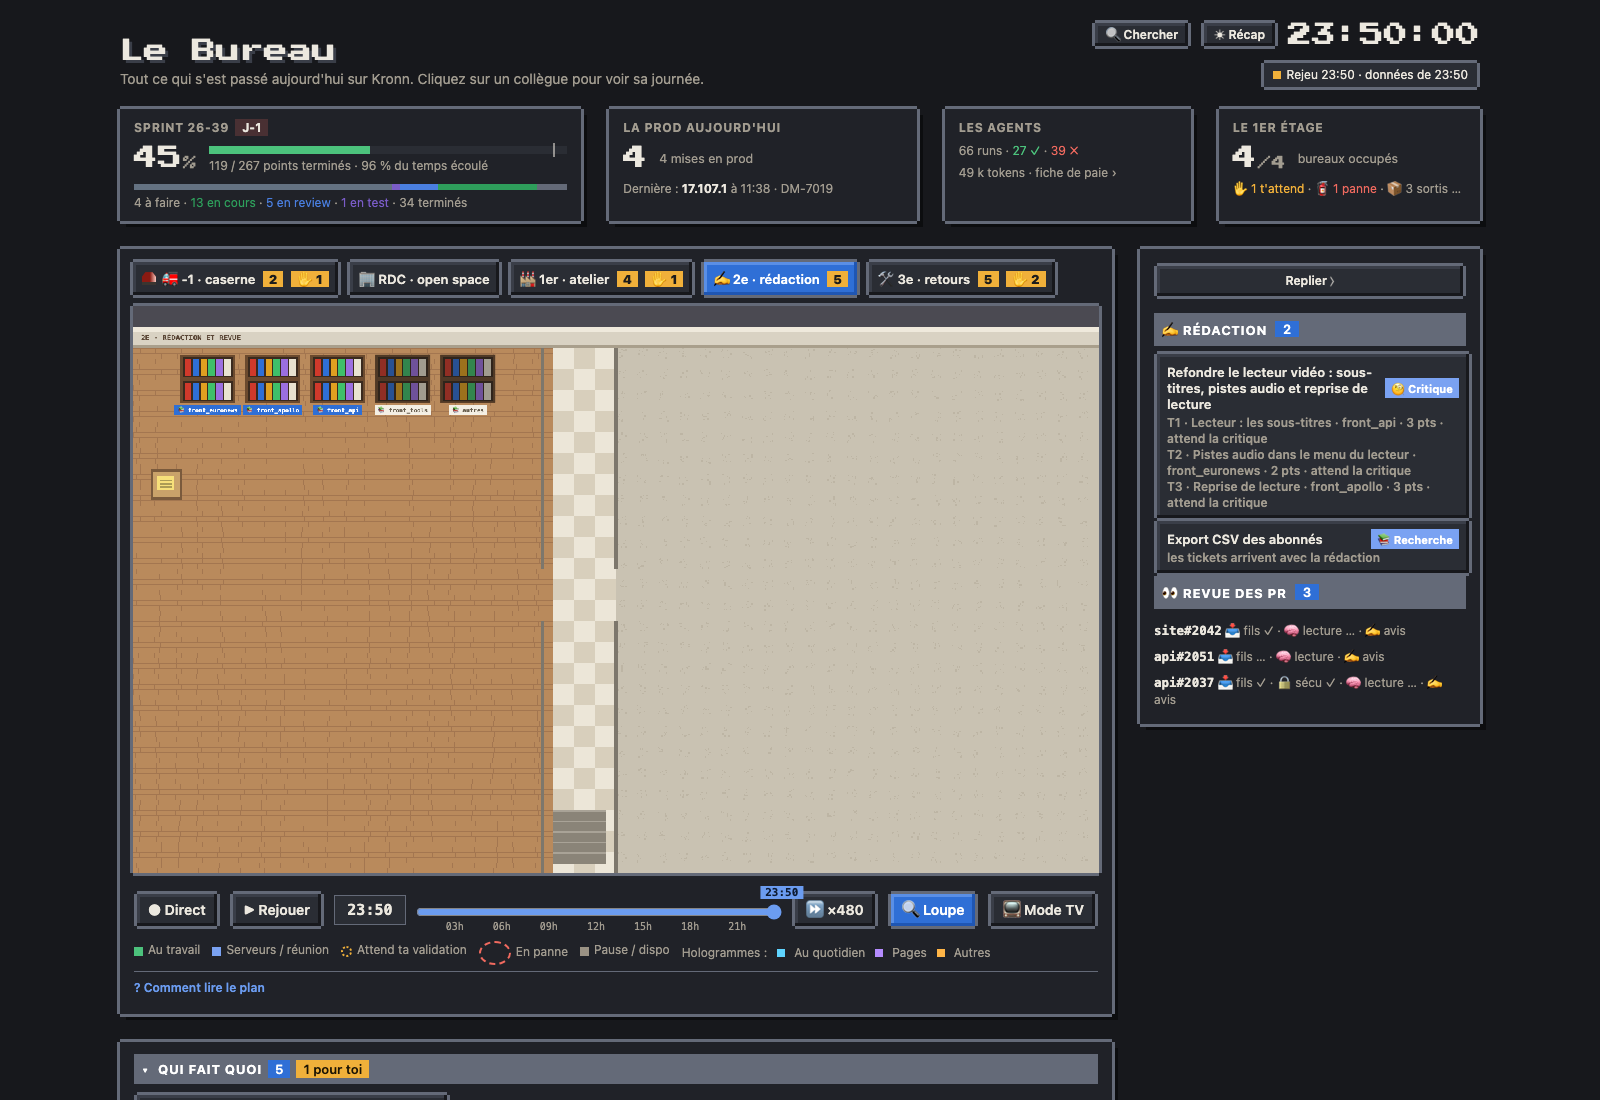
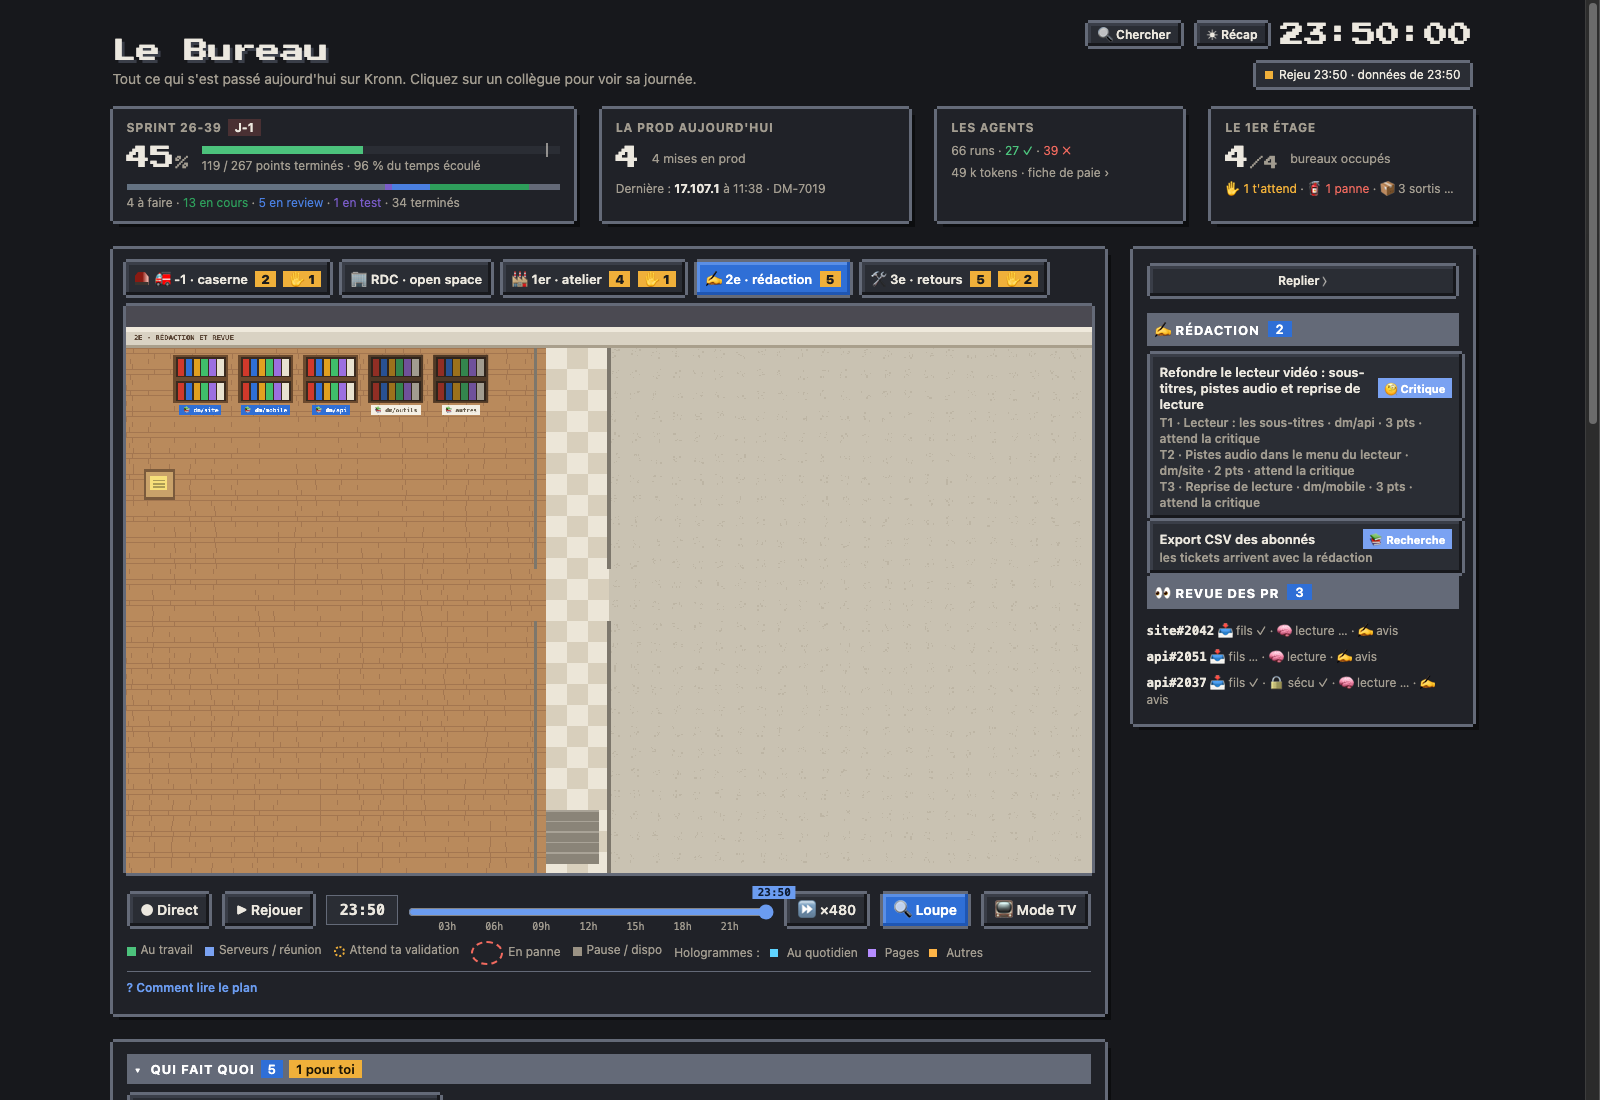
fix(redaction): les bibliothèques viennent des composants de l'équipe, la démo garde ses dépôts fictifs
Aucun nom de dépôt réel dans le dépôt public (test_public) : en démo, dm/site, dm/mobile, dm/api et dm/outils ; chez
toi, les quatre premiers composants de jira.create.components (CFG.redaction_shelves).

diff --git a/page/src/68-redaction.js b/page/src/68-redaction.js
@@ -10,7 +10,7 @@
 // Données : dataset redaction (workflows/redaction_snapshot.py, cron live) et les runs de la revue (DATA.runs) ; démo : redactionDemo().
 const RD_POSTES=[{k:'recherche',i:'📚',n:'Recherche'},{k:'redaction',i:'✍',n:'Rédaction'},{k:'critique',i:'🧐',n:'Critique'},{k:'valider',i:'✋',n:'Toi'}];
 const RD_TK={wait:['#f7e07a','attend la critique'],run:['#9fd4ff','en cours'],gate:['#ffcf4a','t\'attend'],ok:['#b6e3a8','créé'],ecarte:['#d8d2c4','écarté'],err:['#f4a3a3','en panne']};
-const RD_X1=19.5, RD_VX=23, RD_SH=['front_euronews','front_apollo','front_api','front_tools'];
+const RD_X1=19.5, RD_VX=23, RD_SH0=['dm/site','dm/mobile','dm/api','dm/outils'];
 const RD_DESK={x:15.6*AT_TS,y:23.4*AT_TS}, RD_JIRA={x:17.8*AT_TS,y:25.6*AT_TS}, RD_CORK={x:1.6*AT_TS,y:9.4*AT_TS};
 let REDACTION=null, RDSEL=null, RD_HITS=[], RD_LIT=[], RD_MEM={last:0};
 function readRedaction(src){
@@ -28,9 +28,9 @@ function redactionDemo(){
   const at=h=>new Date(DAY0+h*36e5).toISOString();
   return {generated_at:at(11),crees:2,tables:[
     {run:'demo-t1',status:'Running',since:at(10.2),intention:'Refondre le lecteur vidéo : sous-titres, pistes audio et reprise de lecture',poste:'critique',tour:2,
-     composants:['front_euronews','front_apollo','front_api'],tickets:[{i:0,summary:'Lecteur : les sous-titres',composant:'front_api',points:3,etat:'wait'},
-       {i:1,summary:'Pistes audio dans le menu du lecteur',composant:'front_euronews',points:2,etat:'wait'},{i:2,summary:'Reprise de lecture',composant:'front_apollo',points:3,etat:'wait'}]},
-    {run:'demo-t2',status:'Running',since:at(10.8),intention:'Export CSV des abonnés',poste:'recherche',tour:1,composants:['front_tools'],tickets:[]}],
+     composants:['dm/site','dm/mobile','dm/api'],tickets:[{i:0,summary:'Lecteur : les sous-titres',composant:'dm/api',points:3,etat:'wait'},
+       {i:1,summary:'Pistes audio dans le menu du lecteur',composant:'dm/site',points:2,etat:'wait'},{i:2,summary:'Reprise de lecture',composant:'dm/mobile',points:3,etat:'wait'}]},
+    {run:'demo-t2',status:'Running',since:at(10.8),intention:'Export CSV des abonnés',poste:'recherche',tour:1,composants:['dm/outils'],tickets:[]}],
     events:[{t:at(10.2),k:'arrive',run:'demo-t1'},{t:at(10.8),k:'arrive',run:'demo-t2'},{t:at(8.5),k:'arrive',run:'demo-t0'},{t:at(9.1),k:'gate',run:'demo-t0'},{t:at(9.2),k:'cree',run:'demo-t0'},{t:at(9.3),k:'cree',run:'demo-t0'},{t:at(9.4),k:'fin',run:'demo-t0'}]};
 }
 const rdTables=()=>((REDACTION&&REDACTION.tables)||[]).slice(0,3);
@@ -79,7 +79,8 @@ function rdAgent(people,k,x,y,s,o,now){
 function rdShelf(x,y,label,lit){R(ctx,x,y,84,74,'#6b4a2e');[4,40].forEach(dy=>{R(ctx,x+4,y+dy,76,30,'#3a2a1e');['#d0392b','#2f6fd6','#e0a020','#3fbf6a','#9b6fe0','#e8e2d0'].forEach((c,k)=>R(ctx,x+7+k*12,y+dy+3,10,26,c));});
   if(!lit){ctx.fillStyle='rgba(30,26,22,.35)';ctx.fillRect(x,y,84,74);}
   atPill('📚 '+label,x+42,y+88,lit?'#2f6fd6':'#f4efe4',lit?'#fff':'#6a6050','bold 9px ui-monospace,Menlo,monospace');}
-const rdShelves=t=>{const own=[...((t&&t.composants)||[])], base=[...RD_SH];for(const c of own)if(!base.includes(c))base.splice(base.length-1,0,c);return [...base.slice(0,4),'autres'];};
+// les bibliothèques : les composants de l'équipe (jira.create.components du pack ou de la config), sinon ceux de la démo
+const rdShelves=t=>{const own=[...((t&&t.composants)||[])], base=[...((CFG.redaction_shelves||[]).length?CFG.redaction_shelves:RD_SH0)].slice(0,4);for(const c of own)if(!base.includes(c))base.splice(base.length-1,0,c);return [...base.slice(0,4),'autres'];};
 function rdPin(q,col){ctx.fillStyle=col;ctx.beginPath();ctx.arc(q.x,q.y,5,0,7);ctx.fill();ctx.fillStyle='rgba(255,255,255,.7)';ctx.fillRect(q.x-2,q.y-3,2,2);}
 function rdStrand(a,b,on){ctx.save();ctx.beginPath();ctx.moveTo(a.x,a.y);if(on){ctx.lineTo(b.x,b.y);ctx.etatrokeStyle='#c0392b';ctx.lineWidth=3;}
   else{ctx.quadraticCurveTo((a.x+b.x)/2,(a.y+b.y)/2+22,b.x,b.y);ctx.setLineDash([5,5]);ctx.etatrokeStyle='#9a958a';ctx.lineWidth=2;}ctx.etatroke();ctx.restore();}

diff --git a/tests/redaction.test.js b/tests/redaction.test.js
@@ -42,7 +42,7 @@ test("la revue : l'auteur de la PR en face du relecteur, un remplaçant pour la 
   p.run('setFloor(2); renderRedaction(1000);');
   const html = J('redactionListHtml()');
   assert.match(html, /Rédaction <span class="cnt">2/);
-  assert.match(html, /T2 · Pistes audio dans le menu du lecteur · front_euronews · 2 pts/);
+  assert.match(html, /T2 · Pistes audio dans le menu du lecteur · dm\/site · 2 pts/);
   assert.match(html, /Revue des PR <span class="cnt">3/);
   assert.match(J('tvRedactionHtml()'), /Rédaction[\s\S]*Revue des PR · 3/);
 });

diff --git a/tools/assemble.py b/tools/assemble.py
@@ -208,6 +208,8 @@ def page_config(cfg):
         # 3e étage, les retours de PR : ses onglets quand le modèle « corriger les commentaires d'une PR » est installé
         "retours": bool((cfg.get("actions") or {}).get("fix_pr")),
         # 2e étage, la revue des PR : préfixes des runs de relecture d'une PR (le sous-workflow commun et la revue à la demande)
+        # 2e étage, la salle de rédaction : une bibliothèque par composant de l'équipe (jira.create.components)
+        "redaction_shelves": [str(c.get("name") if isinstance(c, dict) else c) for c in (((cfg.get("jira") or {}).get("create") or {}).get("components") or [])][:4],
         "revue_wf": sorted({str((cfg.get("models") or {}).get(k) or "")[:8] for k in ("review_child", "review_one") if (cfg.get("models") or {}).get(k)}),
         # ses workflows (modèles impl*) : leurs runs vont au 1er, ni au RDC ni dans « Nouvel agent »
         "atelier_wf": sorted({str(v)[:8] for k, v in (cfg.get("models") or {}).items() if k.startswith("impl") and k != "impl" and v}),

diff --git a/guide/fonctionnalites/28-redaction.md b/guide/fonctionnalites/28-redaction.md
@@ -10,7 +10,7 @@ L'onglet « ✍ 2e · rédaction » apparaît entre le 1er et le 3e dès que le 
 
 ![La rédaction : une intention découpée en trois tickets, la critique au travail, le fil rouge](../img/redaction.png)
 
-- **Les bibliothèques**, une par composant (front_euronews, front_apollo, front_api, front_tools, puis « autres ») : celles que l'intention touche s'allument.
+- **Les bibliothèques**, une par composant Jira de l'équipe (les quatre premiers de `jira.create.components`, puis « autres ») : celles que l'intention touche s'allument.
 - **Les postes**, des reporters en chapeau mou et carte de presse : 📚 Recherche (à la bibliothèque), ✍ Rédaction et 🧐 Critique, face à face à la table. Les versions des tickets sont posées sur la table, et « ↺ critique → rédaction · tour 2/3 » dit quand la critique renvoie à la rédaction (trois tours au plus). Même langage qu'aux autres étages : au travail (halo, bulle), a travaillé (✓), attend son tour (gris).
 - **Le fil rouge** part de ton intention, punaisée au liège, passe par la recherche et la rédaction, puis se divise en un brin par ticket quand l'intention est découpée. Une carte par ticket, à sa couleur : attend la critique, en cours, t'attend, créé, écarté.
 - **Le bureau du boss**, le tampon posé dessus : le boss y est toujours, et tamponne les tickets un par un (« ✋ T2 : je tamponne ? »). Les brins des tickets créés vont jusqu'à la boîte Jira.
